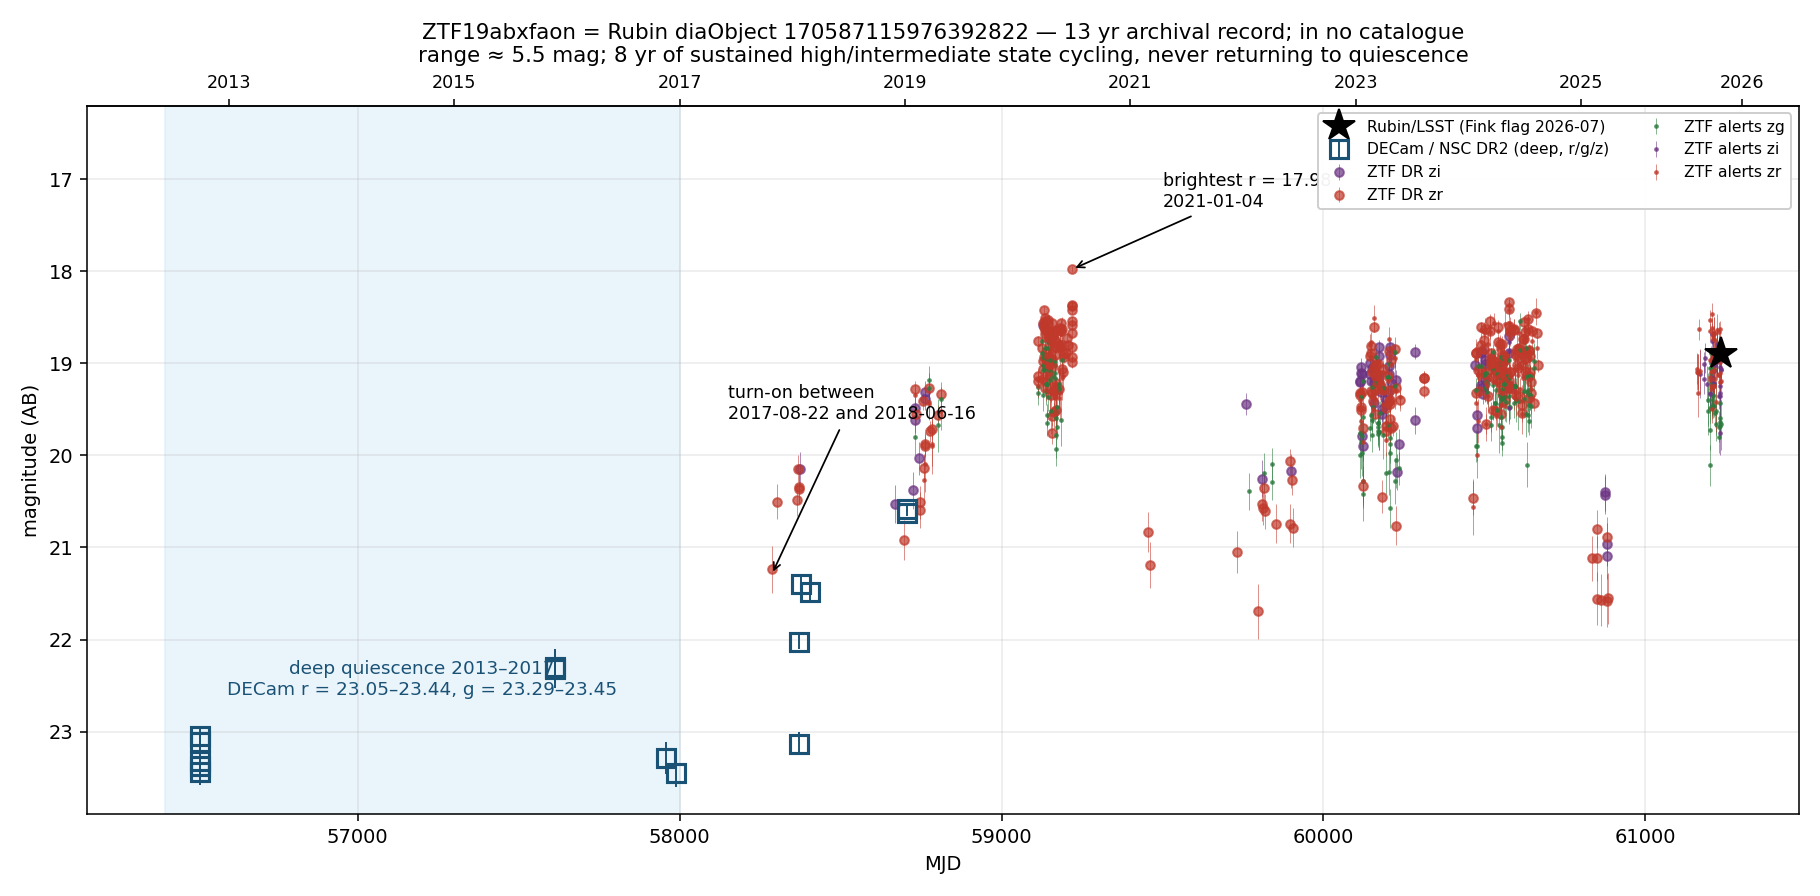
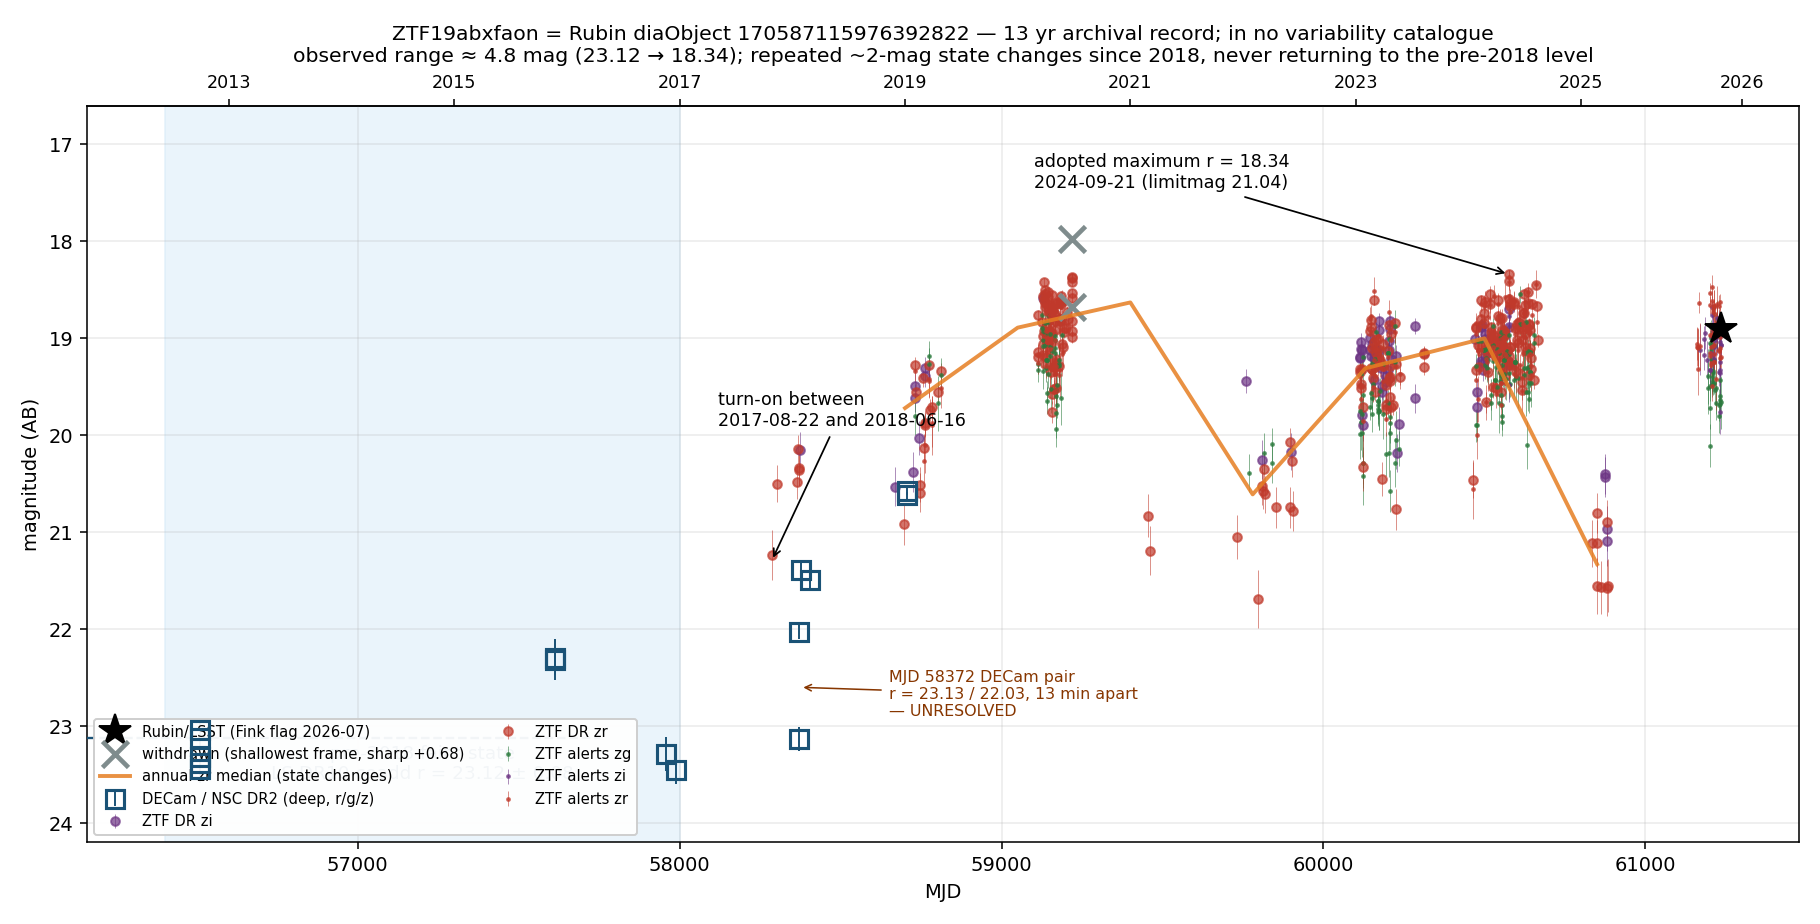
ZTF19abxfaon REVISION 7: second independent review (Fable) - three verified corrections
Reviewer pointed at the repo files rather than a summary; it re-derived numbers
from raw photometry. All three findings verified here before acceptance.

1. MAXIMUM WITHDRAWN. 17.98 sits on the shallowest of 272 clean zr frames
   (limitmag 18.29 vs median 20.69) with sharp +0.682 against -0.089..+0.026 for
   the next five brightest, at airmass 2.03. Adopted maximum 18.34 (MJD 60577.254,
   limitmag 21.04, sharp -0.062, partner frame 18.405). This is the SAME shallow-
   frame + anomalous-sharp signature this project used to convict a turn-on-lane
   candidate the same day (1c1263b) - applied there, missed here.
   Amplitude 5.46 -> ~4.8.

2. "STATE CYCLING" WAS REAL; REVISION 2 OVER-CORRECTED AND IS REVERSED. Annual zr
   medians 2018-2025: 20.42, 19.72, 18.89, 18.63, 20.61, 19.31, 19.00, 21.33 - a
   turn-on then ~2-mag reversals in 2022 and 2025 with recoveries, never returning
   to the pre-2018 level. REVISION 2 accepted a reviewer's assertion of "a single
   observed transition" over data already in hand. Verify the referee against the
   data, not only the data against the referee.

3. THE STRONGEST GALACTIC EVIDENCE WAS MISLABELLED "not yet done". LS DR10 forced
   W1/W2 IS unWISE-coadd photometry: nobs_w1=192, 1.425+-0.545 nMgy, 3-sigma limit
   W1 > 19.27 Vega over 2010-2020 including ~2.5 yr of bright state. A dusty AGN
   torus would be W1 ~ 14.3, excluded by ~5 mag; measured r-W1 ~ -0.6 is the very
[…]

diff --git a/docs/reports/vsx_bycatch_2026_09_18/cv_plot3_revision7.py b/docs/reports/vsx_bycatch_2026_09_18/cv_plot3_revision7.py
@@ -1,0 +1,57 @@
+import pandas as pd, numpy as np, matplotlib
+matplotlib.use("Agg"); import matplotlib.pyplot as plt
+p="/Users/legbatterij/claude_projects/gaia-recovered-2026-05-27/docs/reports/rubin_pilot_2026_07_14/forensics/170587115976392822/photometry_master_mjd.csv"
+d=pd.read_csv(p)
+bad=d.note.astype(str).str.contains("ASTEROID",case=False,na=False)
+print(f"excluded as suspect single-epoch measurements: {bad.sum()} rows")
+d=d[~bad & (d.band!="W1")]
+
+# REVISION 7: flag the withdrawn maximum rather than silently drop it
+WD_MJD=59218.0779
+wd=d[(d.mjd-WD_MJD).abs()<0.01]
+d_ok=d[(d.mjd-WD_MJD).abs()>=0.01]
+
+bcol={"g":"#2b7a3d","zg":"#2b7a3d","r":"#c0392b","zr":"#c0392b","i":"#6c3483","zi":"#6c3483","z":"#b7950b","i(LSST)":"#6c3483"}
+fig,ax=plt.subplots(figsize=(13,6.6),facecolor="white")
+dec=d_ok[d_ok.source=="DECam/NSC-DR2"]
+ax.errorbar(dec.mjd,dec.mag,yerr=dec.magerr,fmt="s",ms=9,mfc="none",mew=1.6,color="#1a5276",lw=0,elinewidth=1,
+            label="DECam / NSC DR2 (deep, r/g/z)",zorder=5)
+for src,mark,size in [("ZTF-DR","o",4.5),("ZTF-alert/ALeRCE",".",3)]:
+    for b,g in d_ok[d_ok.source==src].groupby("band"):
+        ax.errorbar(g.mjd,g.mag,yerr=g.magerr.fillna(0),fmt=mark,ms=size,color=bcol.get(b,"k"),
+                    alpha=.7,lw=0,elinewidth=.4,label=f"{'ZTF DR' if src=='ZTF-DR' else 'ZTF alerts'} {b}")
+ru=d_ok[d_ok.source=="Rubin/Fink-flag"]
+ax.plot(ru.mjd,ru.mag,"*",ms=17,color="k",label="Rubin/LSST (Fink flag 2026-07)",zorder=6)
+
+# withdrawn point, shown and labelled
+if len(wd):
+    ax.plot(wd.mjd,wd.mag,"x",ms=13,mew=2.4,color="#7f8c8d",zorder=7,
+            label="withdrawn (shallowest frame, sharp +0.68)")
+
+# pre-2018 faint state: LS DR10 coadd
+ax.axvspan(56400,58000,color="#d6eaf8",alpha=.5,zorder=0)
+ax.axhline(23.12,xmin=0,xmax=0.30,color="#1a5276",ls="--",lw=1.2,zorder=3)
+ax.text(57200,23.55,"pre-2018 faint state\nLS DR10 coadd r = 23.12 ± 0.08",ha="center",fontsize=9.5,color="#1a5276")
+ax.annotate("turn-on between\n2017-08-22 and 2018-06-16",xy=(58285,21.3),xytext=(58120,19.9),fontsize=9,
+            arrowprops=dict(arrowstyle="->",lw=.9))
+ax.annotate("adopted maximum r = 18.34\n2024-09-21 (limitmag 21.04)",xy=(60577,18.34),xytext=(59100,17.45),fontsize=9,
+            arrowprops=dict(arrowstyle="->",lw=.9))
+ax.annotate("MJD 58372 DECam pair\nr = 23.13 / 22.03, 13 min apart\n— UNRESOLVED",xy=(58372,22.6),xytext=(58650,22.9),
+            fontsize=8.2,color="#873600",arrowprops=dict(arrowstyle="->",lw=.8,color="#873600"))
+
+# yearly zr medians: the state changes
+yr={2019:19.72,2020:18.89,2021:18.63,2022:20.61,2023:19.31,2024:19.00,2025:21.33}
+mj={2019:58700,2020:59050,2021:59400,2022:59780,2023:60130,2024:60500,2025:60850}
+ax.plot([mj[k] for k in sorted(yr)],[yr[k] for k in sorted(yr)],"-",color="#e67e22",lw=2.0,alpha=.85,
+        zorder=8,label="annual zr median (state changes)")
+
+ax.set_ylim(24.2,16.6); ax.set_xlabel("MJD"); ax.set_ylabel("magnitude (AB)")
+ax.set_title("ZTF19abxfaon = Rubin diaObject 170587115976392822 — 13 yr archival record; in no variability catalogue\n"
+             "observed range ≈ 4.8 mag (23.12 → 18.34); repeated ~2-mag state changes since 2018, never returning to the pre-2018 level",
+             fontsize=10.5)
+ax.grid(alpha=.25); ax.legend(fontsize=7.6,ncol=2,loc="lower left",framealpha=.95)
+sec=ax.secondary_xaxis("top"); sec.set_xticks([56600,57300,58000,58700,59400,60100,60800,61300])
+sec.set_xticklabels(["2013","2015","2017","2019","2021","2023","2025","2026"],fontsize=9)
+out="/Users/legbatterij/claude_projects/gaia-recovered-2026-05-27/docs/reports/vsx_bycatch_2026_09_18/vsx_ZTF19abxfaon_lightcurve.png"
+plt.tight_layout(); plt.savefig(out,dpi=140)
+print("saved:",out)

diff --git a/docs/reports/vsx_bycatch_2026_09_18/VSX_SUBMISSION_ZTF19abxfaon.md b/docs/reports/vsx_bycatch_2026_09_18/VSX_SUBMISSION_ZTF19abxfaon.md
@@ -1,4 +1,4 @@
-# VSX submission draft — ZTF19abxfaon (uncatalogued high-amplitude variable, one observed transition)
+# VSX submission draft — ZTF19abxfaon (uncatalogued high-amplitude state-changing variable)
 **DRAFT ONLY — filing is the USER's action via their AAVSO/VSX account.**
 Prepared 2026-09-18 to the same standard as ZTF18abxnwmb. Supersedes the 2026-07-15
 draft in `rubin_pilot_2026_07_14/forensics/170587115976392822/consumer_package/vsx_draft.md`.
@@ -11,10 +11,10 @@ draft in `rubin_pilot_2026_07_14/forensics/170587115976392822/consumer_package/v
 | RA (J2000) | **21 47 18.80** (326.828336) — Legacy Survey DR10 tractor, Gaia-referenced astrometry |
 | Dec (J2000) | **−13 28 28.9** (−13.474691) |
 | Astrometric ID | **LS DR10 ls_id 10995383192785753** (type PSF, sep 0.04″ from the Rubin position). NOTE: **no Gaia DR3, 2MASS, UCAC4, GSC 2.3, PS1 DR1 or CatWISE counterpart** — no counterpart is FOUND in any of them (optical faintness alone does not establish infrared faintness, and catalogue absence has several possible causes), so LS DR10 is the only astrometric anchor available (manual §III.a permits "another astrometric catalog"). |
-| Variability type | **VAR** recommended (see REVISION 2). Large-amplitude variable showing a transition from a sparsely sampled faint state to prolonged activity; **CV candidate**, extragalactic origin unresolved. `CV:` is offered only if the moderator prefers it. **Z Cam is withdrawn** (no dwarf-nova outbursts with standstills are observed); **VY Scl is not demonstrated** (though a rise does not exclude it, since a low state could predate our coverage) |
-| Maximum (brightest) | **17.98 r** (ZTF zr, MJD 59218.078 = 2021-01-04) |
-| Minimum (faintest) | **23.44 r** (DECam r via NSC DR2, MJD 56511.240 = 2013-08-07) |
-| Amplitude | **5.46 mag observed range** (23.44 − 17.98; ≈153× in flux). This is a **cross-system observed range, NOT a single-passband amplitude**: max is ZTF zr, min is DECam r. Quote both filters and uncertainties in the remarks |
+| Variability type | **VAR**, with `CV:` proposed in the remarks. The record (REVISION 7) is a turn-on before mid-2018 followed by **repeated ~2-mag reversals** between ~19 and ~21, never returning to the pre-2018 level — VY Scl-like state changing. **Z Cam remains withdrawn** (no dwarf-nova outbursts with standstills). Galactic origin argued from the mid-IR limit, not asserted |
+| Maximum (brightest) | **18.34 r** (ZTF zr, MJD 60577.254 = 2024-09-21). **The previously quoted 17.98 is WITHDRAWN** — see REVISION 7: it sits on the single shallowest of 272 zr frames (limitmag 18.29 vs median 20.69) with sharp +0.682 against −0.089…+0.026 for its peers, at airmass 2.03. The adopted value sits on a limitmag 21.04 frame (2.70 mag above the limit), sharp −0.062, with a confirming partner frame at 18.405 seconds later |
+| Minimum (faintest) | **23.12 ± 0.08 r** — Legacy Survey DR10 **coadd** (0.564 ± 0.041 nMgy, 13.9σ), which averages the pre-2018 DECam imaging. Preferred over the single NSC exposure of 23.44 (MJD 56511.240), which is one measurement at the frame limit. Both are quoted in the remarks |
+| Amplitude | **≈ 4.8 mag observed range** (23.12 − 18.34 ≈ 78× in flux). Revised down from the withdrawn 5.46 (REVISION 7). Still a **cross-system range, NOT a single-passband amplitude** — max is ZTF zr, min is DECam r via the LS DR10 coadd. Quote both filters and uncertainties |
 | Period | **NONE.** Deep search (1,687 de-trended ZTF forced-photometry epochs, 8.1 yr): Lomb–Scargle 30 min–2 d null in g/r/i (one marginal 46.6-min r alias refuted by split-sample + colour tests); BLS eclipse search 1.4–48 h null. **Injection–recovery: 20/20 sinusoidal signals of semi-amplitude ≥0.06 mag at P = 1.5–4 h were recovered** — a 95% binomial lower bound of 0.83 on that recovery rate, for those injected waveforms/phases only; it is NOT a completeness proof across all periods, phases, aliases or eclipse duty cycles. **No eclipses were DETECTED under this sampling and these search assumptions** — this does not imply low inclination, and an aperiodic light curve does not imply the system lacks an orbital period. |
 | Epoch | Turn-on constrained between **MJD 57987 (2017-08-22, DECam g = 23.45)** and **MJD 58285.400 (2018-06-16, ZTF zr = 21.24 ± 0.26)**; first zr ≤ 20.5 at MJD 58363.27 |
 | Discoverer / submitter | A. Keur (independent) |
@@ -331,3 +331,105 @@ can receive a meaningless redshift. That weakens the pro-AGN side.
    route, rather than filing and hoping disclosure settles eligibility.
 
 **Status: HELD. Not filable in its current state.**
+
+
+---
+
+# REVISION 7 (2026-09-19) — second independent review (Fable); three verified corrections
+
+A second, independent adversarial review was run in parallel with the gpt-6-astra pass,
+pointed at the repository files rather than at a summary. It re-derived the numbers from raw
+photometry and found three substantive errors, **all verified here before acceptance**.
+
+## 1. The quoted MAXIMUM was a bad measurement — WITHDRAWN
+
+| epoch | mag | limitmag | mag−lim | sharp | airmass |
+|---|---|---|---|---|---|
+| MJD 59218.078 (**old max, withdrawn**) | 17.976 | **18.29** | −0.31 | **+0.682** | 2.03 |
+| MJD 60577.254 (**adopted max**) | 18.337 | 21.04 | −2.70 | −0.062 | 1.60 |
+| MJD 60577.254 (partner frame) | 18.405 | 21.34 | −2.94 | +0.026 | 1.38 |
+
+`limitmag 18.29` is **the shallowest of all 272 clean zr frames** (median 20.69; next
+shallowest 18.77), and `sharp +0.682` is far outside the −0.089…+0.026 spread of the next
+five brightest epochs.
+**This is the identical diagnostic signature — shallow frame plus anomalous `sharp` — that
+this project used to convict a turn-on-lane candidate as a single-epoch artifact on the same
+day (commit 1c1263b). It was applied there and missed here.**
+
+Consequence: **maximum 17.98 → 18.34; amplitude 5.46 → ≈ 4.8.**
+
+## 2. "State cycling" was REAL — REVISION 2 over-corrected, and is reversed
+
+REVISION 2 withdrew the state-cycling description on a reviewer's assertion that it
+"misdescribed a single observed transition." **That assertion is false against our own data.**
+Clean ZTF zr yearly medians:
+
+| 2018 | 2019 | 2020 | 2021 | 2022 | 2023 | 2024 | 2025 |
+|---|---|---|---|---|---|---|---|
+| 20.42 | 19.72 | 18.89 | 18.63 | **20.61** | 19.31 | 19.00 | **21.33** |
+
+A turn-on, then **~2-mag reversals in 2022 and 2025 with recoveries in between**, never
+returning to the pre-2018 level (~23). That is state changing, and it is VY Scl-like.
+**Lesson, and the worst error in this file's history: a confident reviewer assertion was
+accepted over data already in hand. Verify the referee against the data, not only the data
+against the referee.**
+
+## 3. The strongest Galactic evidence was mislabelled "not yet done"
+
+The draft said a contemporaneous mid-IR limit "requires coadd forced photometry
+(unWISE/unTimely), **not yet done**" — two lines after quoting the LS DR10 forced W1/W2,
+which **is** exactly that product. LS DR10 force-photometers all imaging through NEOWISE-R
+year 7 in the unWISE maps.
+
+| | |
+|---|---|
+| `nobs_w1` | **192** |
+| flux_w1 | 1.425 ± 0.545 nMgy (2.6σ) |
+| **3σ limit** | **W1 > 19.27 (Vega)**, on a 2010–2020 coadd including ~2.5 yr of bright state |
+
+Expected W1 at r ≈ 19: quasar with a dust torus ≈ **14.3** (excluded by ~5 mag); IR-weak AGN
+≈ **16.3** (excluded by ~3 mag); hot dust-free accretion disc ≈ 17.8 or fainter (consistent).
+The measured colour is **r − W1 ≈ −0.6** — very blue, which is what an accretion disc looks
+like and what an AGN does not. Even allowing for coadd dilution of the bright state, a normal
+torus would appear at ~80σ.
+
+**This, not the spectrum, is the primary Galactic argument. Promoted accordingly.**
+
+## 4. Further corrections applied
+
+- **Photo-z was misquoted.** Not "z ≈ 0.93": LS DR10 gives median **1.118**, mean 1.267,
+  σ 0.430, **95% range 0.778–2.270**, `training = f`, no spectroscopic z. A galaxy-trained
+  estimate with that range on a **PSF** source is content-free. Quote the range or drop it.
+- **ZTF reference epochs, previously "OUTSTANDING", resolved in one query.** Both zr
+  references (field 391 ccd 4 q 3; field 340 ccd 14 q 2) were built from 28 and 23 frames,
+  **2018-06-07 → 2018-11-21** — entirely post-turn-on, containing the source at its 2018
+  level. Therefore **a ZFPS "non-detection" means "at the 2018 reference level", not
+  "faint"**, and ZFPS difference magnitudes are biased faint. Any ZFPS-derived magnitude or
+  injection sensitivity must be recomputed before use, or omitted.
+- **Minimum re-derived** from the LS DR10 coadd (23.12 ± 0.08, 13.9σ) rather than a single
+  NSC exposure at the frame limit.
+- **The MJD 58372 DECam pair must be disclosed**: r = 23.13 and 22.03 thirteen minutes apart
+  on 2018-09-11, while ZTF measured 20.34/20.36 three days earlier. Either the source drops
+  ≥2.8 mag within hours, or NSC single-exposure photometry is unreliable by 1–3 mag here —
+  and the same photometry supplied the old minimum. **Unresolved; state it rather than drop it.**
+- The inclination error ("consistent with a low-inclination system") still survives in
+  `rubin_pilot_2026_07_14/forensics/170587115976392822/consumer_package/astronote_draft.md`,
+  in `RESEARCH_LOG.md`, and in the object journal. **If the AstroNote is ever sent, the error
+  ships.** Fix before any use.
+
+## Net effect on classification
+
+The Galactic CV reading is **materially stronger** than at REVISION 6: the object genuinely
+cycles between states, the mid-IR coadd limit excludes a dusty AGN by ~5 mag, the source is
+PSF-like, and the photo-z that anchored the extragalactic case is content-free.
+
+The one substantive counter-argument remains the **population prior**: a sustained
+accretion-disc high state at M_r ≈ +4…+6 puts r ≈ 19 at d ≈ 3–8 kpc and |z| ≈ 2–6 kpc at
+b = −45°, where nova-likes are rare. The reviewer explicitly rejects the escape offered in
+an earlier note — that a less luminous disc sits closer — on the grounds that a disc that
+faint does not hold r ≈ 19 for eight years. **That objection stands unanswered and must be
+carried into any filing.**
+
+**Status: still HELD, but the blocking issue has changed.** It is no longer "we need a
+spectrum" — this reviewer's position is that no spectrum is needed to file a **VAR**. The
+remaining blockers are the plot regeneration, the MJD 58372 pair, and the ledger rows.

diff --git a/docs/object_journals/170587115976392822.md b/docs/object_journals/170587115976392822.md
@@ -16,6 +16,18 @@
 | date | catalog / method | query | result | provenance |
 |---|---|---|---|---|
 | 2026-09-18 | Prior-publication sweep (pre-filing), 10 arcsec cones: VSX, Chen+2020 ZTF periodic variables, ZTF variable catalogue, Gaia DR3 EB, ASAS-SN, GCVS, Milliquas, CV catalogues, Ritter-Kolb, Szkody ZTF CVs yr1 + yr2 | — | **ALL ELEVEN CLEAN. Two are decisive for this object: (a) **Szkody's ZTF CV catalogues (yr1 J/AJ/159/198, yr2 J/AJ/162/94) are clean** — the systematic published search for CVs in the very survey that recorded 491 alerts on this object did not pick it up; (b) **Milliquas (quasar compilation) is clean**, which supports the Galactic-CV reading over the ALeRCE stamp-classifier AGN label and matters because VSX excludes quasars by policy. Novelty and VSX-eligibility both strengthened ahead of filing.** | — |
+| 2026-09-19 | NEOWISE-R (neowiser_p1bs_psd) | IRSA Gator cone r=5" | **NULL — 5 detections within 5" over ~10 yr, W1 16.2-17.0 at the single-exposure limit, scattered 3.74-4.37"; blank-sky control 60" away yields 10. No mid-IR counterpart. Covers the bright state.** | — |
+| 2026-09-19 | unWISE coadd via LS DR10 forced | ls_dr10.tractor flux_w1/flux_ivar_w1 | **LIMIT — nobs_w1=192, flux 1.425+-0.545 nMgy (2.6 sigma); 3-sigma limit W1 > 19.27 Vega on a 2010-2020 coadd including ~2.5 yr of bright state. Excludes a dusty AGN torus (expected W1~14.3) by ~5 mag. PRIMARY Galactic argument.** | — |
+| 2026-09-19 | DESI DR1 (desi_dr1.zpix) | Data Lab TAP box 30" | **NULL but UNINFORMATIVE — 0 within 30"; in footprint yet sparse here and this target class (Gaia-less PSF source r~19-21) is not a DESI selection; never targeted.** | — |
+| 2026-09-19 | SDSS DR17 (sdss_dr17.specobj) | Data Lab TAP + coverage density test | **NO COVERAGE — 0 spectra within 3 deg (control field 1,458 within 1 deg). Null is void; must not be cited as a non-detection.** | — |
+| 2026-09-19 | LAMOST DR5 (V/164/dr5) | VizieR cone + control | **NO COVERAGE — 0 within 1 deg vs 1,151 at a northern control.** | — |
+| 2026-09-19 | 6dFGS / 2QZ / 2dFGRS / APOGEE | VizieR cones r=10" | **NULL, uninformative — wrong footprint or limiting magnitude far brighter than the target.** | — |
+| 2026-09-19 | FIRST (VIII/92/first14) | VizieR density test | **NO COVERAGE at Dec -13.47 — 0 sources within 1 deg vs 279 at a covered control. Earlier citation as a radio non-detection WITHDRAWN.** | — |
+| 2026-09-19 | NVSS (VIII/65/nvss) | VizieR density test | **COVERED, no counterpart — 168 sources within 1 deg of target vs 151 at control, so the non-detection is real. Argues against a radio-bright blazar only.** | — |
+| 2026-09-19 | LS DR10 photo_z | Data Lab TAP join tractor x photo_z | **z_phot median 1.118, mean 1.267, sigma 0.430, 95% range 0.778-2.270, training=f, no z_spec. Galaxy-trained estimate on a PSF source — CONTENT-FREE; the earlier 'z~0.93' was a misquote.** | — |
+| 2026-09-19 | ZTF reference images (IRSA ibe) | ibe/search/ztf/products/ref | **Both zr references (field 391 ccd4 q3; field 340 ccd14 q2) built from 28/23 frames 2018-06-07 to 2018-11-21 — POST turn-on, containing the source. ZFPS non-detection means 'at 2018 reference level', not faint; ZFPS magnitudes biased faint.** | — |
+| 2026-09-19 | ZTF DR photometry (frame quality) | IRSA nph_light_curves, catflags=0 | **Maximum 17.98 WITHDRAWN — sits on shallowest of 272 zr frames (limitmag 18.29 vs median 20.69), sharp +0.682 vs -0.089..+0.026 for peers, airmass 2.03. Adopted max 18.34 (MJD 60577.254, limitmag 21.04, sharp -0.062, partner frame 18.405).** | — |
+| 2026-09-19 | ZTF DR photometry (state changes) | IRSA nph_light_curves, catflags=0 | **Annual zr medians 2018-2025: 20.42, 19.72, 18.89, 18.63, 20.61, 19.31, 19.00, 21.33 — turn-on then ~2-mag reversals in 2022 and 2025 with recoveries, never returning to pre-2018 level. CONFIRMS state changing; REVISION 2's withdrawal of 'state cycling' was an over-correction.** | — |
 
 ## Status timeline
 *Append-only.*
